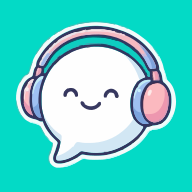
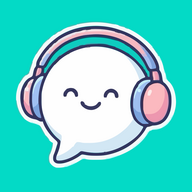
faviconを整備

diff --git a/src/app/layout.tsx b/src/app/layout.tsx
@@ -13,6 +13,15 @@ export const metadata: Metadata = {
   description: "Your personalized AI DJ that plays the perfect music for your context.",
   manifest: `${basePath}/manifest.json`,
   metadataBase: new URL(appUrl),
+  icons: {
+    icon: [
+      { url: `${basePath}/favicon.ico`, sizes: 'any' },
+      { url: `${basePath}/icon-192x192.png`, sizes: '192x192', type: 'image/png' },
+    ],
+    apple: [
+      { url: `${basePath}/apple-touch-icon.png`, sizes: '180x180', type: 'image/png' },
+    ],
+  },
   openGraph: {
     title: "ContextDJ - AI Music Curator",
     description: "Your personalized AI DJ that plays the perfect music for your context.",
@@ -20,7 +29,7 @@ export const metadata: Metadata = {
     locale: "ja_JP",
     url: appUrl,
     siteName: "ContextDJ",
-    images: '/icon-512x512.png',
+    images: `${basePath}/icon-512x512.png`,
   },
   twitter: {
     card: "summary_large_image",
